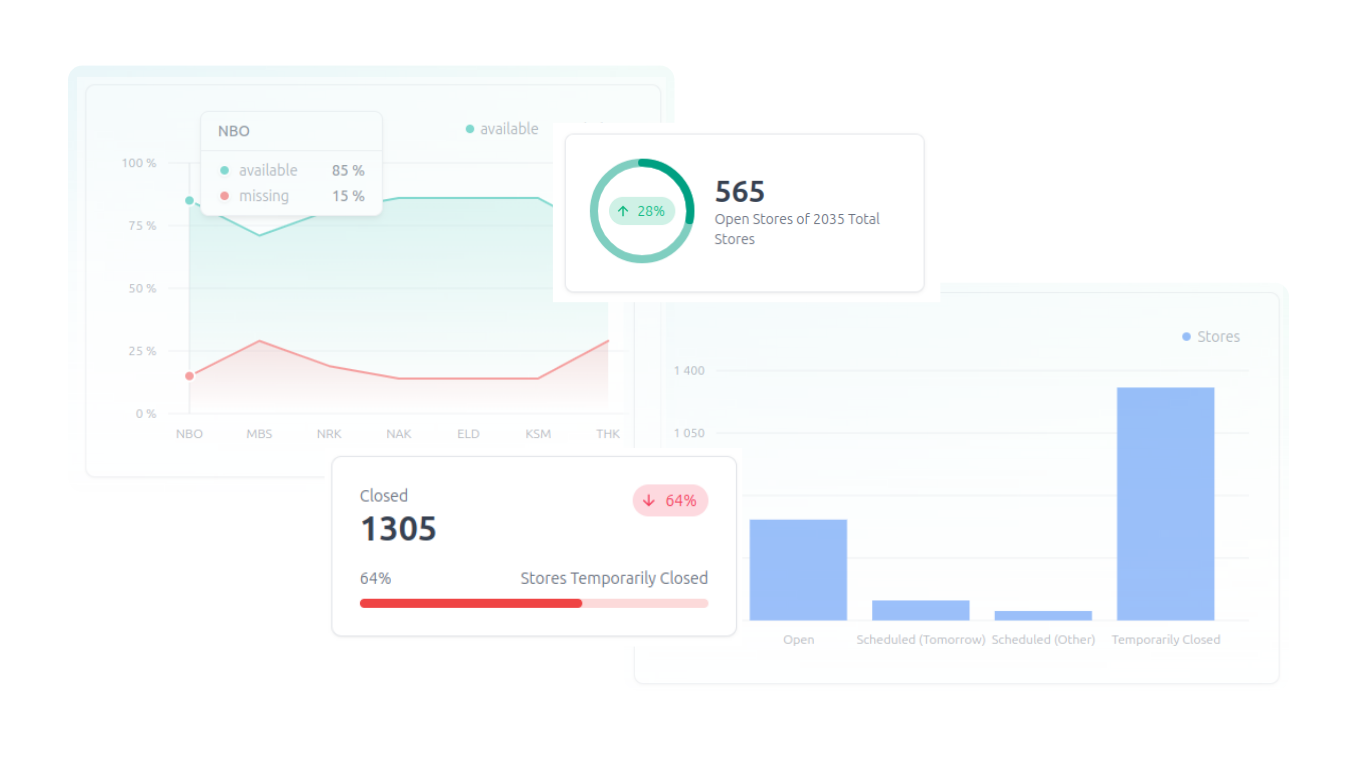
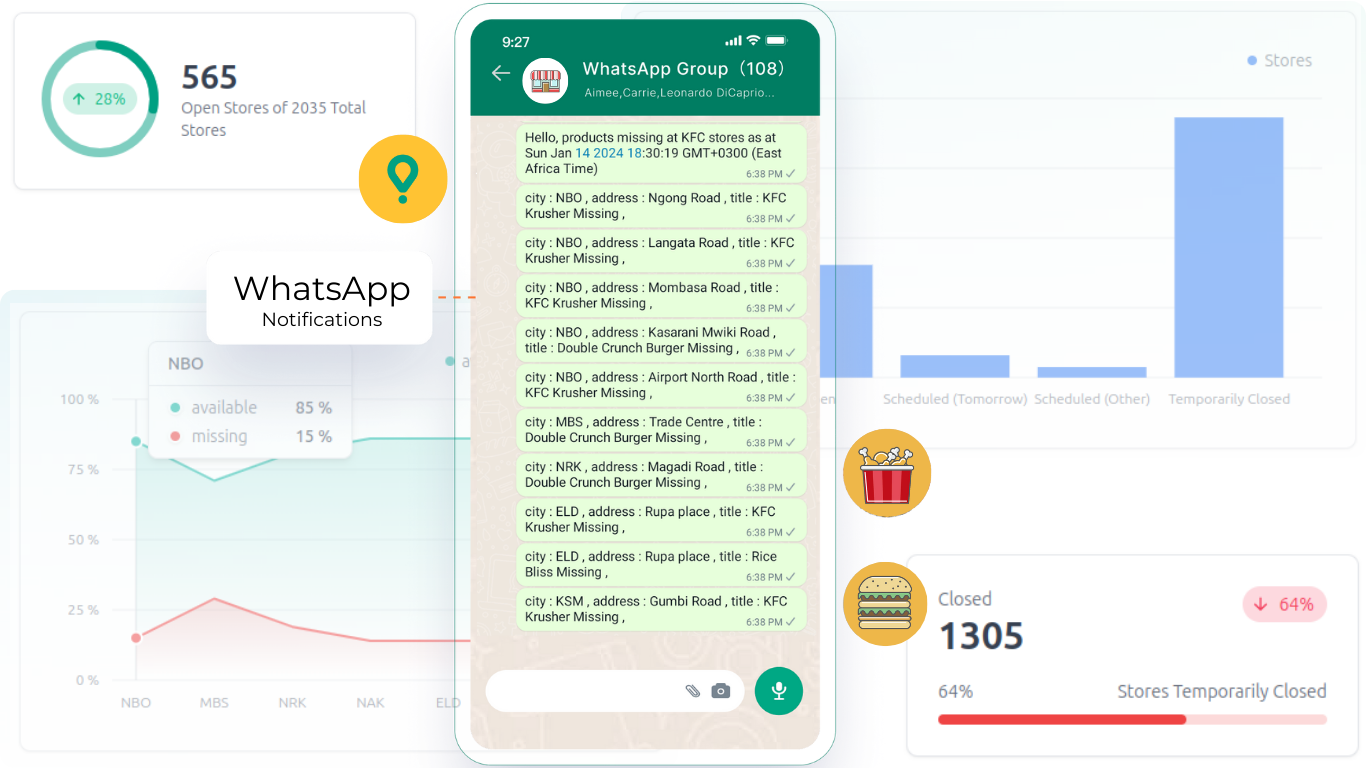
Whatsapp added to hero

diff --git a/src/pages/kfc.jsx b/src/pages/kfc.jsx
@@ -31,10 +31,16 @@ export default function Kfc() {
 
   //Fetch time and city routes
   async function fetchProducts() {
-    const timeResponse = await fetch("https://horrible-bird-24.telebit.io/time");
+    const timeResponse = await fetch(
+      "https://horrible-bird-24.telebit.io/time"
+    );
     const allResponse = await fetch("https://horrible-bird-24.telebit.io/kfc");
-    const activeResponse = await fetch("https://horrible-bird-24.telebit.io/kfc/active");
-    const inactiveResponse = await fetch("https://horrible-bird-24.telebit.io/kfc/inactive");
+    const activeResponse = await fetch(
+      "https://horrible-bird-24.telebit.io/kfc/active"
+    );
+    const inactiveResponse = await fetch(
+      "https://horrible-bird-24.telebit.io/kfc/inactive"
+    );
 
     const time = await timeResponse.json();
     setTimeData(time);
@@ -56,7 +62,10 @@ export default function Kfc() {
   const allStatusFilter = (event) => {
     setallStatus(
       all.filter((row) =>
-        row.title.toLowerCase().replaceAll(' ', '').includes(event.target.value.toLowerCase().replaceAll(' ', ''))
+        row.title
+          .toLowerCase()
+          .replaceAll(" ", "")
+          .includes(event.target.value.toLowerCase().replaceAll(" ", ""))
       )
     );
   };
@@ -202,7 +211,14 @@ export default function Kfc() {
                                 : "Available"}
                             </TableCell>
                           </Badge>
-                          <TableCell><Badge icon={CheckCircleIcon} className="bg-transparent">WhatsApp</Badge></TableCell>
+                          <TableCell>
+                            <Badge
+                              icon={CheckCircleIcon}
+                              className="bg-transparent"
+                            >
+                              WhatsApp
+                            </Badge>
+                          </TableCell>
                         </TableRow>
                       );
                     })
